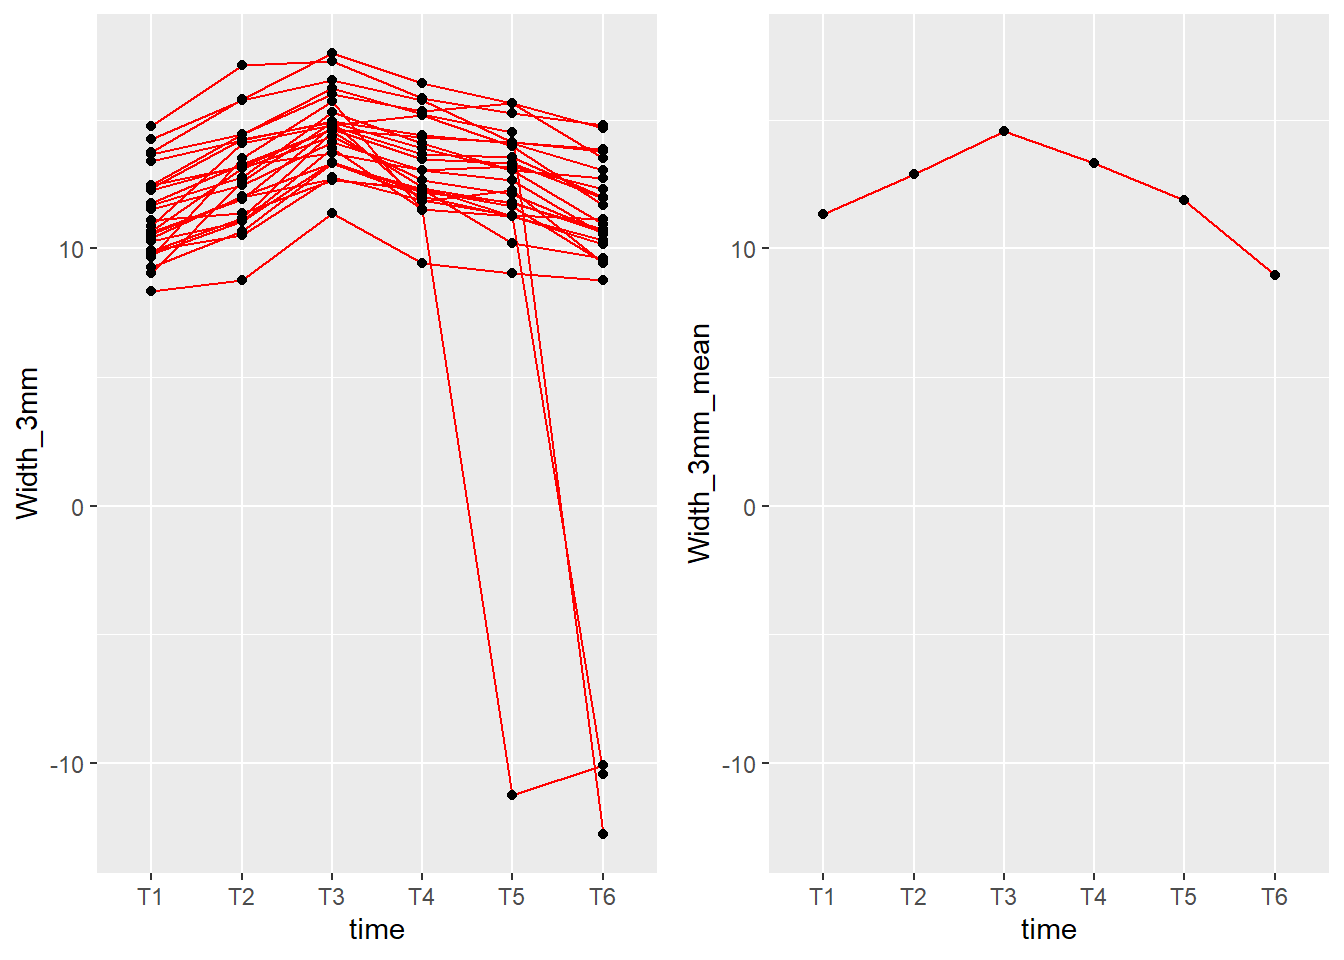
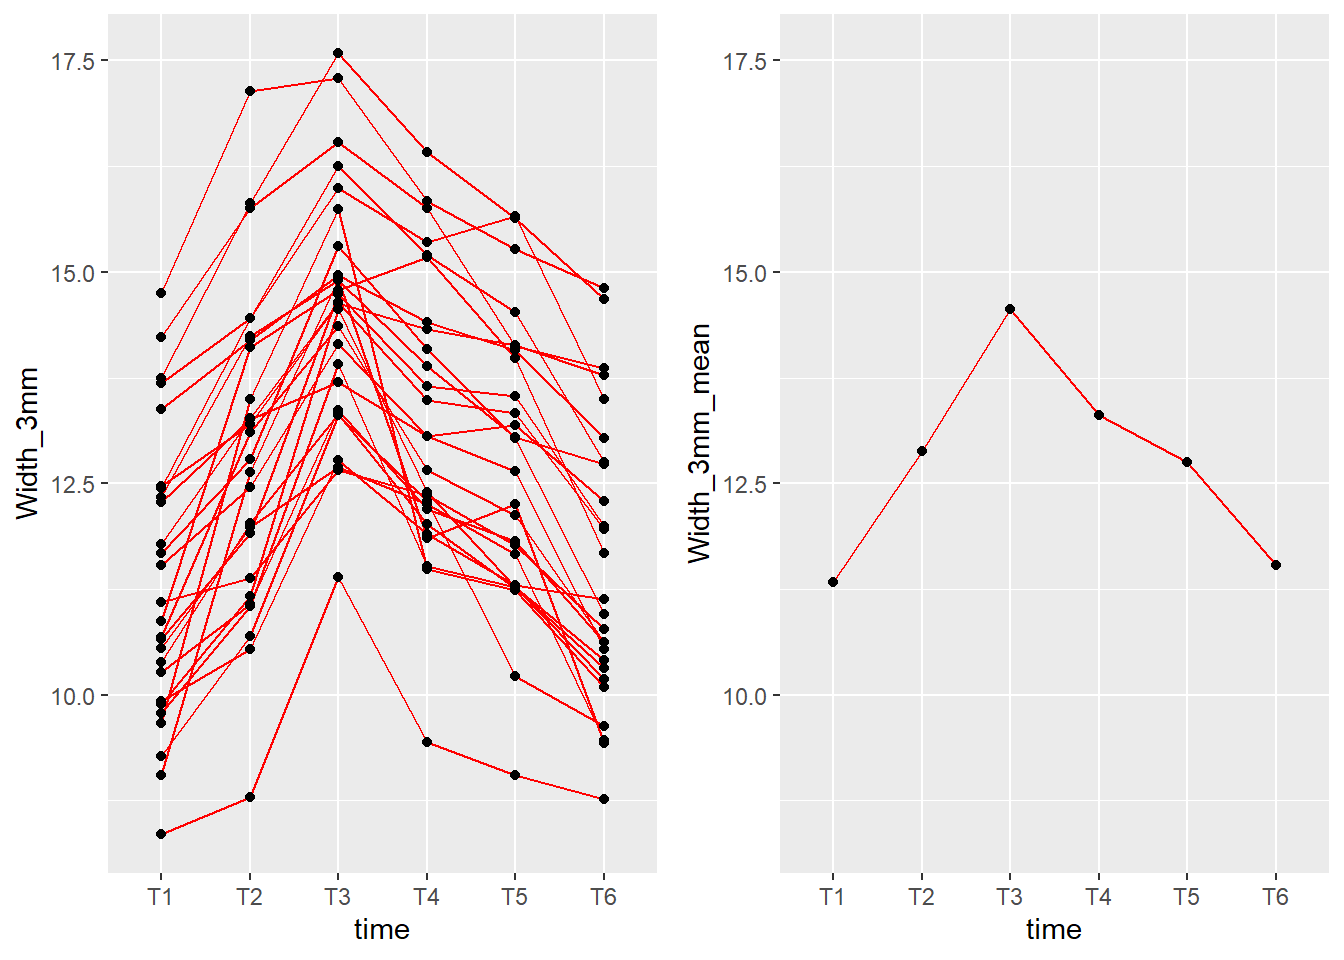
1/5/2023

diff --git a/docs/2022_Sep1_Juan.html b/docs/2022_Sep1_Juan.html
@@ -404,7 +404,7 @@ aria-hidden="true"></span> </a>
 <div class="tab-content">
 <div id="summary" class="tab-pane fade in active">
 <p>
-<strong>Last updated:</strong> 2023-01-03
+<strong>Last updated:</strong> 2023-01-05
 </p>
 <p>
 <strong>Checks:</strong> <span
@@ -538,15 +538,15 @@ project makes it easier to run your code on other machines.</p>
 <div class="panel panel-default">
 <div class="panel-heading">
 <p class="panel-title">
-<a data-toggle="collapse" data-parent="#workflowr-checks" href="#strongRepositoryversionstrongahrefhttpsgithubcomhan16Collaborationstreeac2b0dea406321a972bd8c02103c44e98166cd7etargetblankac2b0dea">
+<a data-toggle="collapse" data-parent="#workflowr-checks" href="#strongRepositoryversionstrongahrefhttpsgithubcomhan16Collaborationstree1e109046a54dd4e6f8cea04b7e2526f75cd8fef1targetblank1e10904a">
 <span class="glyphicon glyphicon-ok text-success"
 aria-hidden="true"></span> <strong>Repository version:</strong>
-<a href="https://github.com/han16/Collaborations/tree/ac2b0dea406321a972bd8c02103c44e98166cd7e" target="_blank">ac2b0de</a>
+<a href="https://github.com/han16/Collaborations/tree/1e109046a54dd4e6f8cea04b7e2526f75cd8fef1" target="_blank">1e10904</a>
 </a>
 </p>
 </div>
 <div
[2 lines of base64/hex data omitted]
 class="panel-collapse collapse">
 <div class="panel-body">
 <p>
@@ -556,7 +556,7 @@ reproducibility.
 </p>
 <p>
 The results in this page were generated with repository version
-<a href="https://github.com/han16/Collaborations/tree/ac2b0dea406321a972bd8c02103c44e98166cd7e" target="_blank">ac2b0de</a>.
+<a href="https://github.com/han16/Collaborations/tree/1e109046a54dd4e6f8cea04b7e2526f75cd8fef1" target="_blank">1e10904</a>.
 See the <em>Past versions</em> tab to see a history of the changes made
 to the R Markdown and HTML files.
 </p>
@@ -620,6 +620,40 @@ Message
 </tr>
 </thead>
 <tbody>
+<tr>
+<td>
+Rmd
+</td>
+<td>
+<a href="https://github.com/han16/Collaborations/blob/1e109046a54dd4e6f8cea04b7e2526f75cd8fef1/analysis/2022_Sep1_Juan.Rmd" target="_blank">1e10904</a>
+</td>
+<td>
+Han
+</td>
+<td>
+2023-01-03
+</td>
+<td>
+1/3/2023
+</td>
+</tr>
+<tr>
+<td>
+html
+</td>
+<td>
+<a href="https://rawcdn.githack.com/han16/Collaborations/1e109046a54dd4e6f8cea04b7e2526f75cd8fef1/docs/2022_Sep1_Juan.html" target="_blank">1e10904</a>
+</td>
+<td>
+Han
+</td>
+<td>
+2023-01-03
+</td>
+<td>
+1/3/2023
+</td>
+</tr>
 <tr>
 <td>
 Rmd
@@ -1382,12 +1416,12 @@ Han
 <h3>trajectory plot</h3>
 <p><img src="figure/2022_Sep1_Juan.Rmd/unnamed-chunk-9-1.png" width="672" style="display: block; margin: auto;" /></p>
 <div class="datatables html-widget html-fill-item-overflow-hidden html-fill-item" id="htmlwidget-f30d7598595affc4f25a" style="width:100%;height:auto;"></div>
-<script type="application/json" data-for="htmlwidget-f30d7598595affc4f25a">{"x":{"filter":"none","vertical":false,"extensions":["Buttons"],"data":[["1","2","3","4","5","6"],["T1","T2","T3","T4","T5","T6"],[11.3361,12.8844,14.5556,13.3102,11.8819,8.9793],[1.6941,1.8707,1.472,1.6695,4.9908,7.5783],[0.3322,0.3669,0.2887,0.3274,0.9788,1.4862],[8.355,8.7887,11.3884,9.4339,-11.2322,-12.7486],[14.7525,17.1403,17.5868,16.4179,15.6585,14.8067]],"container":"<table class=\"display\">\n  <thead>\n    <tr>\n      <th> <\/th>\n      <th>Time<\/th>\n      <th>Mean<\/th>\n      <th>SD<\/th>\n      <th>SE<\/th>\n      <th>Range_low<\/th>\n      <th>Range_upper<\/th>\n    <\/tr>\n  <\/thead>\n<\/table>","options":{"dom":"Blfrtip","buttons":["copy","csv","excel","pdf","print"],"lengthMenu":[[10,25,50,-1],["10","25","50","All"]],"columnDefs":[{"className":"dt-right","targets":[2,3,4,5,6]},{"orderable":false,"targets":0}],"order":[],"autoWidth":false,"orderClasses":false}},"evals":[],"jsHooks":[]}</script>
+<script type="application/json" data-for="htmlwidget-f30d7598595affc4f25a">{"x":{"filter":"none","vertical":false,"extensions":["Buttons"],"data":[["1","2","3","4","5","6"],["T1","T2","T3","T4","T5","T6"],[11.3361,12.8844,14.5556,13.3102,12.7459,11.5368],[1.6941,1.8707,1.472,1.6695,1.6668,1.6921],[0.3322,0.3669,0.2887,0.3274,0.3269,0.3318],[8.355,8.7887,11.3884,9.4339,9.05,8.7593],[14.7525,17.1403,17.5868,16.4179,15.6585,14.8067]],"container":"<table class=\"display\">\n  <thead>\n    <tr>\n      <th> <\/th>\n      <th>Time<\/th>\n      <th>Mean<\/th>\n      <th>SD<\/th>\n      <th>SE<\/th>\n      <th>Range_low<\/th>\n      <th>Range_upper<\/th>\n    <\/tr>\n  <\/thead>\n<\/table>","options":{"dom":"Blfrtip","buttons":["copy","csv","excel","pdf","print"],"lengthMenu":[[10,25,50,-1],["10","25","50","All"]],"columnDefs":[{"className":"dt-right","targets":[2,3,4,5,6]},{"orderable":false,"targets":0}],"order":[],"autoWidth":false,"orderClasses":false}},"evals":[],"jsHooks":[]}</script>
 </div>
 <div id="pairwise-comparisons" class="section level3">
 <h3>pairwise comparisons</h3>
 <div class="datatables html-widget html-fill-item-overflow-hidden html-fill-item" id="htmlwidget-b85bf888dc62471906a9" style="width:100%;height:auto;"></div>
-<script type="application/json" data-for="htmlwidget-b85bf888dc62471906a9">{"x":{"filter":"none","vertical":false,"extensions":["Buttons"],"data":[["1","2","3","4","5","6","7","8","9","10","11","12","13","14","15","16","17","18","19","20","21","22","23","24","25","26","27","28","29","30","31","32","33","34","35","36"],["Width_3mm_T1","---","---","---","---","---","Width_3mm_T2","---","---","---","---","---","width_3mm_T3","---","---","---","---","---","Width_3mm_T4","---","---","---","---","---","Width_3mm_T5","---","---","---","---","---","Width_3mm_T6","---","---","---","---","---"],["Width_3mm_T1","Width_3mm_T2","width_3mm_T3","Width_3mm_T4","Width_3mm_T5","Width_3mm_T6","Width_3mm_T1","Width_3mm_T2","width_3mm_T3","Width_3mm_T4","Width_3mm_T5","Width_3mm_T6","Width_3mm_T1","Width_3mm_T2","width_3mm_T3","Width_3mm_T4","Width_3mm_T5","Width_3mm_T6","Width_3mm_T1","Width_3mm_T2","width_3mm_T3","Width_3mm_T4","Width_3mm_T5","Width_3mm_T6","Width_3mm_T1","Width_3mm_T2","width_3mm_T3","Width_3mm_T4","Width_3mm_T5","Width_3mm_T6","Width_3mm_T1","Width_3mm_T2","width_3mm_T3","Width_3mm_T4","Width_3mm_T5","Width_3mm_T6"],[0,-1.55,-3.22,-1.97,-0.55,2.36,1.55,0,-1.67,-0.43,1,3.91,3.22,1.67,0,1.25,2.67,5.58,1.97,0.43,-1.25,0,1.43,4.33,0.55,-1,-2.67,-1.43,0,2.9,-2.36,-3.91,-5.58,-4.33,-2.9,0],[null,-1.92,-3.7,-2.29,-2.34,-0.55,1.17,null,-2.02,-0.79,-0.98,0.86,2.74,1.32,null,0.86,0.65,2.44,1.66,0.06,-1.63,null,-0.34,1.39,-1.25,-2.98,-4.7,-3.2,null,0.29,-5.27,-6.95,-8.71,-7.27,-5.51,null],[null,-1.17,-2.74,-1.66,1.25,5.27,1.92,null,-1.32,-0.06,2.98,6.95,3.7,2.02,null,1.63,4.7,8.71,2.29,0.79,-0.86,null,3.2,7.27,2.34,0.98,-0.65,0.34,null,5.51,0.55,-0.86,-2.44,-1.39,-0.29,null],["NaN","&lt;0.0001","&lt;0.0001","&lt;0.0001","0.5368","0.1079","&lt;0.0001","NaN","&lt;0.0001","0.0232","0.3074","0.014","&lt;0.0001","&lt;0.0001","NaN","&lt;0.0001","0.0118","0.0012","&lt;0.0001","0.0232","&lt;0.0001","NaN","0.1086","0.0056","0.5368","0.3074","0.0118","0.1086","NaN","0.0306","0.1079","0.014","0.0012","0.0056","0.0306","NaN"]],"container":"<table class=\"display\">\n  <thead>\n    <tr>\n      <th> <\/th>\n      <th>group1<\/th>\n      <th>group2<\/th>\n      <th>mean_difference<\/th>\n      <th>CI_lower<\/th>\n      <th>CI_upper<\/th>\n      <th>p_value<\/th>\n    <\/tr>\n  <\/thead>\n<\/table>","options":{"dom":"Blfrtip","buttons":["copy","csv","excel","pdf","print"],"lengthMenu":[[10,25,50,-1],["10","25","50","All"]],"columnDefs":[{"className":"dt-right","targets":[3,4,5]},{"orderable":false,"targets":0}],"order":[],"autoWidth":false,"orderClasses":false}},"evals":[],"jsHooks":[]}</script>
+<script type="application/json" data-for="htmlwidget-b85bf888dc62471906a9">{"x":{"filter":"none","vertical":false,"extensions":["Buttons"],"data":[["1","2","3","4","5","6","7","8","9","10","11","12","13","14","15","16","17","18","19","20","21","22","23","24","25","26","27","28","29","30","31","32","33","34","35","36"],["Width_3mm_T1","---","---","---","---","---","Width_3mm_T2","---","---","---","---","---","width_3mm_T3","---","---","---","---","---","Width_3mm_T4","---","---","---","---","---","Width_3mm_T5","---","---","---","---","---","Width_3mm_T6","---","---","---","---","---"],["Width_3mm_T1","Width_3mm_T2","width_3mm_T3","Width_3mm_T4","Width_3mm_T5","Width_3mm_T6","Width_3mm_T1","Width_3mm_T2","width_3mm_T3","Width_3mm_T4","Width_3mm_T5","Width_3mm_T6","Width_3mm_T1","Width_3mm_T2","width_3mm_T3","Width_3mm_T4","Width_3mm_T5","Width_3mm_T6","Width_3mm_T1","Width_3mm_T2","width_3mm_T3","Width_3mm_T4","Width_3mm_T5","Width_3mm_T6","Width_3mm_T1","Width_3mm_T2","width_3mm_T3","Width_3mm_T4","Width_3mm_T5","Width_3mm_T6","Width_3mm_T1","Width_3mm_T2","width_3mm_T3","Width_3mm_T4","Width_3mm_T5","Width_3mm_T6"],[0,-1.55,-3.22,-1.97,-1.41,-0.2,1.55,0,-1.67,-0.43,0.14,1.35,3.22,1.67,0,1.25,1.81,3.02,1.97,0.43,-1.25,0,0.56,1.77,1.41,-0.14,-1.81,-0.56,0,1.21,0.2,-1.35,-3.02,-1.77,-1.21,0],[null,-1.92,-3.7,-2.29,-1.73,-0.46,1.17,null,-2.02,-0.79,-0.23,0.92,2.74,1.32,null,0.86,1.42,2.56,1.66,0.06,-1.63,null,0.34,1.46,1.09,-0.51,-2.2,-0.79,null,0.91,-0.06,-1.77,-3.48,-2.09,-1.51,null],[null,-1.17,-2.74,-1.66,-1.09,0.06,1.92,null,-1.32,-0.06,0.51,1.77,3.7,2.02,null,1.63,2.2,3.48,2.29,0.79,-0.86,null,0.79,2.09,1.73,0.23,-1.42,-0.34,null,1.51,0.46,-0.92,-2.56,-1.46,-0.91,null],["NaN","&lt;0.0001","&lt;0.0001","&lt;0.0001","&lt;0.0001","0.1193","&lt;0.0001","NaN","&lt;0.0001","0.0232","0.4461","&lt;0.0001","&lt;0.0001","&lt;0.0001","NaN","&lt;0.0001","&lt;0.0001","&lt;0.0001","&lt;0.0001","0.0232","&lt;0.0001","NaN","&lt;0.0001","&lt;0.0001","&lt;0.0001","0.4461","&lt;0.0001","&lt;0.0001","NaN","&lt;0.0001","0.1193","&lt;0.0001","&lt;0.0001","&lt;0.0001","&lt;0.0001","NaN"]],"container":"<table class=\"display\">\n  <thead>\n    <tr>\n      <th> <\/th>\n      <th>group1<\/th>\n      <th>group2<\/th>\n      <th>mean_difference<\/th>\n      <th>CI_lower<\/th>\n      <th>CI_upper<\/th>\n      <th>p_value<\/th>\n    <\/tr>\n  <\/thead>\n<\/table>","options":{"dom":"Blfrtip","buttons":["copy","csv","excel","pdf","print"],"lengthMenu":[[10,25,50,-1],["10","25","50","All"]],"columnDefs":[{"className":"dt-right","targets":[3,4,5]},{"orderable":false,"targets":0}],"order":[],"autoWidth":false,"orderClasses":false}},"evals":[],"jsHooks":[]}</script>
 <ul>
 <li>use paired two sample t test</li>
 </ul>
@@ -1396,8 +1430,8 @@ Han
 <h3>test different across all time points</h3>
 <pre><code>ANOVA Table (type III tests)
 
-  Effect  DFn   DFd     F     p p&lt;.05  ges
-1   time 1.59 39.79 8.062 0.002     * 0.17</code></pre>
+  Effect DFn   DFd      F        p p&lt;.05   ges
+1   time 3.3 82.47 92.197 2.33e-27     * 0.302</code></pre>
 <ul>
 <li><p>use repeated anova test</p></li>
 <li><p>small p value indicates significant change over time</p></li>
